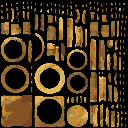
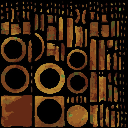
Floor 1's items, from the room inspection: the made pedestal darkened, its pale top outshone the artifact floating over it
Claude-Session: https://claude.ai/code/session_01PMaoLQ7HgAQp4WBSnQkgBC

diff --git a/docs/assets.md b/docs/assets.md
@@ -567,4 +567,4 @@ asset is accepted.
 | Gloom Weaver (R3 proof; Tripo project `51744b52-1ea8-47e3-b07c-e5ce02b28b80`) | creature, enemy budget | nothing yet (floor 1's Crypt Spider is drawn in code, `gloomWeaver` in `fantasyFloor1.ts`) | Nano Banana 2 through the Tripo CLI (lock: round 1, image 1 of 4, `docs/art/proof/weaver-design-lock.png`); Tripo3D through the CLI (model 7,770 triangles, octopod rig, its walk) | | proof only 2026-10-15 (`docs/art-bible.md` section 7); the GLBs stay in the owner's Tripo account and `asset-previews/`. For the foe: brighter eyes and rune (the rune came as a letter), legs spread wider |
 | The relics of floor 1 (`props/grave_marker.glb`, `coffin_lid`, `fallen_candelabrum`, `angel_head`, `skull_pile`, `broken_urn`) | prop (the first three), large prop | nothing (new: floor 1's `relics` scatter, R3 step C2) | Nano Banana 2 in Tripo Studio (the owner; prompts and picks in the session, 2026-10-19), Tripo3D image to 3D (the owner, about 1.9 million triangles each); Blender `bpy` in the cloud session (`tools/art/remesh.py`, `bake.py`, `turn.py`: a closed hull at 2,000 or 3,500 triangles, the colour baked at 2048 px), `tools/art/darken.mjs` for the pale four, `prepare-asset` | the art bible | in the game 2026-10-19 on `r3-floor1`, awaiting the owner's look: 0.28 to 0.7 tall (data/assets.json), one a plain room at most two |
 | The spells' made parts (`props/ice_column.glb`, `bone_hand`, `thorn_vines`, `thorn_hedge`, `judgement_sword`, `vigil_lantern`) and circles (`textures/spells/pyre_seal.png`, `consecrate`, `ferrymans_toll`) | prop; circle masks | the code-built pillars, hands, vines, trunks, lantern and circles of `magic/spellFx.ts` (kept as the placeholder while a model isn't in) | Nano Banana 2 in Tripo Studio and Tripo3D image to 3D (the owner, prompts in the session, 2026-10-20); the models through `remesh.py` and `bake.py` (800 to 1,500 triangles), the sword stood up (`tools/art/upright.py`), the hedge turned; the circles through `tools/art/sigil.py` (their rune bands of real runes replaced by the Wardens' glyphs), the pictures in `docs/art/spells/` | the art bible, docs/effects.md | in the game 2026-10-20 on `r3-floor1` (R3 step F2), accepted by the owner the same day |
-| The containers and the pedestal (`props/chest.glb`, `chest_gilded`, `coffer`, `pedestal`) | prop | the coffer, the chests and the pedestal built in code (`pickupLooks.ts`, `objectLooks.ts`), kept as the fallback | Nano Banana 2 and Tripo3D image to 3D through the Tripo API from the cloud session (`tools/art/tripo_api.py`, prompts in the session, the owner's picks of two each, 2026-10-21: `docs/art/items/`); `remesh.py` and `bake.py` (1,600 to 2,000 triangles), the chests turned to face the camera (`turn.py`), the lids cut off on their hinges (`tools/art/lid.py`), `prepare-asset` | the art bible | in the game 2026-10-21 on `r3-floor1` (R3 step G2), awaiting the owner's look: chests 0.62 tall, the coffer 0.36, the pedestal 0.72; a chest's ward seal still built in code before it |
+| The containers and the pedestal (`props/chest.glb`, `chest_gilded`, `coffer`, `pedestal`) | prop | the coffer, the chests and the pedestal built in code (`pickupLooks.ts`, `objectLooks.ts`), kept as the fallback | Nano Banana 2 and Tripo3D image to 3D through the Tripo API from the cloud session (`tools/art/tripo_api.py`, prompts in the session, the owner's picks of two each, 2026-10-21: `docs/art/items/`); `remesh.py` and `bake.py` (1,600 to 2,000 triangles), the chests turned to face the camera (`turn.py`), the lids cut off on their hinges (`tools/art/lid.py`), the pedestal darkened (`darken.ts` 0.7: its pale top outshone the artifact over it), `prepare-asset` | the art bible | in the game 2026-10-21 on `r3-floor1` (R3 step G2), awaiting the owner's look: chests 0.62 tall, the coffer 0.36, the pedestal 0.72; a chest's ward seal still built in code before it |
